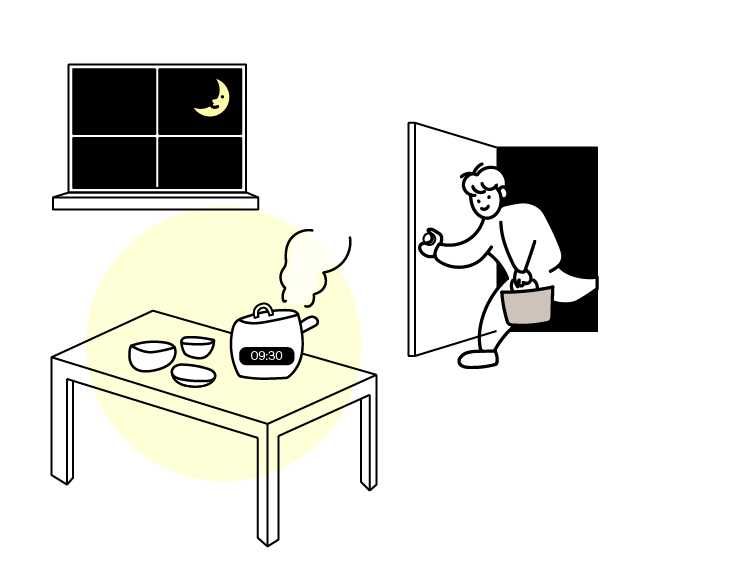
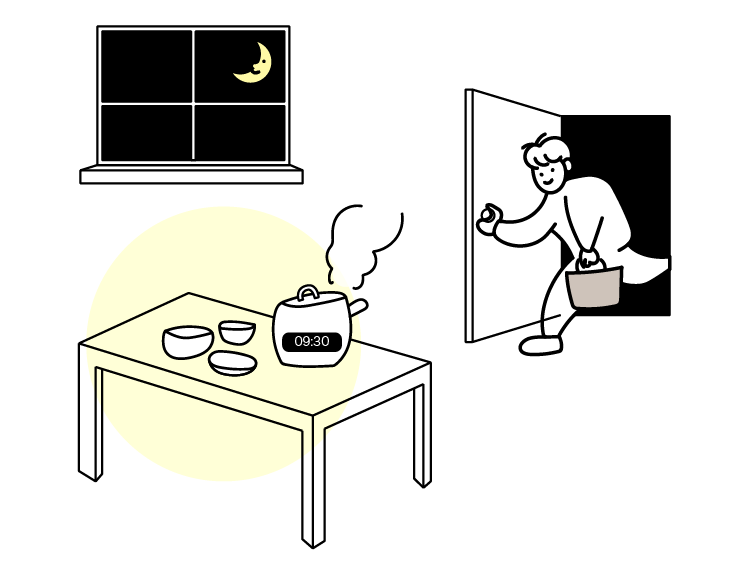
21:58

Changed region(s): [[0.06, 0.1557, 0.9304, 0.9654], [0.06, 0.0311, 0.4202, 0.3737]]

diff --git a/index.html b/index.html
@@ -596,7 +596,7 @@
                                 </div>
                                 <div class="card_right col-12 col-md-5">
                                     <h4>你需要的...寵物良伴</h4>
-                                    <div class="item_wrap d-md-flex flex-wrap d-none">
+                                    <div class="item_wrap pet d-md-flex flex-wrap d-none">
                                         <div class="col-4 text-center">
                                             <div class="item">
                                                 <h5>Mia</h5>
@@ -641,7 +641,7 @@
                             </div>
                         </li>
                         <li class="card ori_card_2">
-                            <h3 class="display_1 ">1.寵物良伴-寵物機器人</h3>
+                            <h3 class="display_1 ">2.Baby良伴-陪伴機器人</h3>
                             <div
                                 class="card_wrap d-flex flex-column flex-md-row justify-content-end align-items-center">
                                 <div class="card_left col-12 col-md-7">
@@ -653,54 +653,54 @@
                                     <div
                                         class="img_wrap row align-self-md-center align-items-center align-items-md-start m-0 m-md-1">
                                         <div class="person d-none d-md-block col-md-4">
-                                            <img src="./index_img/persona-1.png" alt="">
-                                            <img src="./index_img/persona-2.png" alt="">
+                                            <img src="./index_img/persona-5.png" alt="">
+                                            <img src="./index_img/persona-3.png" alt="">
                                             <p class="color_dark_purple text-center
-                                                    mt-2 d-none d-md-block">當事狗傑克，與當事主人A小姐</p>
+                                                    mt-2 d-none d-md-block">當事嬰兒小明，與當事爸爸B先生</p>
                                         </div>
-                                        <img src="./index_img/card-before-1.png" alt=""
+                                        <img src="./index_img/card-before-2.png" alt=""
                                             class="card-list__image col-10 col-md-7">
-                                        <img src="./index_img/card-after-1.png" alt=""
+                                        <img src="./index_img/card-after-2.png" alt=""
                                             class="card-list__image col-10 col-md-7">
                                     </div>
                                 </div>
                                 <div class="card_right col-12 col-md-5">
-                                    <h4>你需要的...寵物良伴</h4>
-                                    <div class="item_wrap d-md-flex flex-wrap d-none">
+                                    <h4>你需要的...Baby良伴</h4>
+                                    <div class="item_wrap baby d-md-flex flex-wrap d-none">
                                         <div class="col-4 text-center">
                                             <div class="item">
-                                                <h5>Mia</h5>
-                                                <p>全新的寵物陪伴機器人Mia，與寵物互動還提供食物</p>
+                                                <h5>Kirobo</h5>
+                                                <p>陪伴機器人Kirobo，大眼紅鞋造型極為可愛</p>
                                             </div>
                                         </div>
                                         <div class="col-4 text-center">
                                             <div class="item">
-                                                <h5>Mia</h5>
-                                                <p>全新的寵物陪伴機器人Mia，與寵物互動還提供食物</p>
+                                                <h5>AIBO</h5>
+                                                <p>Ers-1000 ERS 1000 aibo寵物機器狗</p>
                                             </div>
                                         </div>
                                         <div class="col-4 text-center">
                                             <div class="item">
-                                                <h5>Mia</h5>
-                                                <p>全新的寵物陪伴機器人Mia，與寵物互動還提供食物</p>
+                                                <h5> Lovot</h5>
+                                                <p>可愛就是正義，首位有「個性」的機器人！</p>
                                             </div>
                                         </div>
                                         <div class="col-4 text-center">
                                             <div class="item">
-                                                <h5>Mia</h5>
-                                                <p>全新的寵物陪伴機器人Mia，與寵物互動還提供食物</p>
+                                                <h5>公子小白2</h5>
+                                                <p>智能萌寵機器人第二代</p>
                                             </div>
                                         </div>
                                         <div class="col-4 text-center">
                                             <div class="item">
-                                                <h5>Mia</h5>
-                                                <p>全新的寵物陪伴機器人Mia，與寵物互動還提供食物</p>
+                                                <h5>公子小白</h5>
+                                                <p>智能萌寵機器人，支持兒童智能機器人</p>
                                             </div>
                                         </div>
                                         <div class="col-4 text-center">
                                             <div class="item">
-                                                <h5>Mia</h5>
-                                                <p>全新的寵物陪伴機器人Mia，與寵物互動還提供食物</p>
+                                                <h5>Zenbo</h5>
+                                                <p>提供居家生活陪伴及照護服務</p>
                                             </div>
                                         </div>
                                     </div>
@@ -711,7 +711,7 @@
                             </div>
                         </li>
                         <li class="card ori_card_3">
-                            <h3 class="display_1">3.寵物良伴-寵物機器人</h3>
+                            <h3 class="display_1">3.晚歸人良伴-智能電子鍋</h3>
                             <div
                                 class="card_wrap d-flex flex-column flex-md-row justify-content-end align-items-center">
                                 <div class="card_left col-12 col-md-7">
@@ -723,54 +723,53 @@
                                     <div
                                         class="img_wrap row align-self-md-center align-items-center align-items-md-start m-0 m-md-1">
                                         <div class="person d-none d-md-block col-md-4">
-                                            <img src="./index_img/persona-1.png" alt="">
-                                            <img src="./index_img/persona-2.png" alt="">
+                                            <img src="./index_img/persona-4.png" alt="">
                                             <p class="color_dark_purple text-center
-                                                    mt-2 d-none d-md-block">當事狗傑克，與當事主人A小姐</p>
+                                                    mt-2 d-none d-md-block">當事晚歸人C先生</p>
                                         </div>
-                                        <img src="./index_img/card-before-1.png" alt=""
+                                        <img src="./index_img/card-before-3.png" alt=""
                                             class="card-list__image col-10 col-md-7">
-                                        <img src="./index_img/card-after-1.png" alt=""
+                                        <img src="./index_img/card-after-3.png" alt=""
                                             class="card-list__image col-10 col-md-7">
                                     </div>
                                 </div>
                                 <div class="card_right col-12 col-md-5">
-                                    <h4>你需要的...寵物良伴</h4>
-                                    <div class="item_wrap d-md-flex flex-wrap d-none">
+                                    <h4>你需要的...晚歸人良伴</h4>
+                                    <div class="item_wrap night d-md-flex flex-wrap d-none">
                                         <div class="col-4 text-center">
                                             <div class="item">
-                                                <h5>Mia</h5>
-                                                <p>全新的寵物陪伴機器人Mia，與寵物互動還提供食物</p>
+                                                <h5>MU</h5>
+                                                <p>MU全自動炒菜機‧IH爐智能機器人</p>
                                             </div>
                                         </div>
                                         <div class="col-4 text-center">
                                             <div class="item">
-                                                <h5>Mia</h5>
-                                                <p>全新的寵物陪伴機器人Mia，與寵物互動還提供食物</p>
+                                                <h5>FANLAI</h5>
+                                                <p>全自動炒菜機家用多功能炒飯機炒菜鍋智能機器人炒菜機</p>
                                             </div>
                                         </div>
                                         <div class="col-4 text-center">
                                             <div class="item">
-                                                <h5>Mia</h5>
-                                                <p>全新的寵物陪伴機器人Mia，與寵物互動還提供食物</p>
+                                                <h5>小米</h5>
+                                                <p>最近小米有品上架了一款眾籌智能炒菜機，Solista 獨奏智能炒菜機</p>
                                             </div>
                                         </div>
                                         <div class="col-4 text-center">
                                             <div class="item">
-                                                <h5>Mia</h5>
-                                                <p>全新的寵物陪伴機器人Mia，與寵物互動還提供食物</p>
+                                                <h5>EASY LIFE</h5>
+                                                <p>IH智能翻炒鍋(EL19008)，智能溫控、燉炒燜煲一鍵完成</p>
                                             </div>
                                         </div>
                                         <div class="col-4 text-center">
                                             <div class="item">
-                                                <h5>Mia</h5>
-                                                <p>全新的寵物陪伴機器人Mia，與寵物互動還提供食物</p>
+                                                <h5>SMART</h5>
+                                                <p>全功能智慧烹飪機/炒菜機器人/懶人炒鍋紅色/黃</p>
                                             </div>
                                         </div>
                                         <div class="col-4 text-center">
                                             <div class="item">
-                                                <h5>Mia</h5>
-                                                <p>全新的寵物陪伴機器人Mia，與寵物互動還提供食物</p>
+                                                <h5>小米</h5>
+                                                <p>飯來F1S 烹飪機器人，標榜一鍵烹飪坐享飯來</p>
                                             </div>
                                         </div>
                                     </div>

diff --git a/index.css b/index.css
@@ -158,7 +158,7 @@ section{
 @media screen and (max-width: 575.98px) {
 
     .section_1 .index{
-        margin-top: 12rem;
+        margin-top: 5rem;
     }
 
     .textwrap::after{
@@ -547,36 +547,102 @@ section{
     margin-top: 1rem;
 }
 
-.card_right .item_wrap .item:nth-child(1){
+/* pet */
+.card_right .pet .item:nth-child(1){
     background:linear-gradient(rgba(0,0,0,.3), rgba(0,0,0,.3)),url(index_img/jpg/dog-1.jpeg);
     background-size: cover;
     background-position: 80% 0%;
 }
-.card_right .item_wrap .item:nth-child(2){
+.card_right .pet .item:nth-child(2){
     background:linear-gradient(rgba(0,0,0,.3), rgba(0,0,0,.3)),url(index_img/jpg/dog-2.jpeg);
     background-size: cover;
     background-position: 80% 0%;
 }
-.card_right .item_wrap .item:nth-child(3){
+.card_right .pet .item:nth-child(3){
     background:linear-gradient(rgba(0,0,0,.3), rgba(0,0,0,.3)),url(./index_img/jpg/dog-2.jpeg);
     background-size: cover;
     background-position: 80% 0%;
 }
-.card_right .item_wrap .item:nth-child(4){
+.card_right .pet .item:nth-child(4){
     background:linear-gradient(rgba(0,0,0,.3), rgba(0,0,0,.3)),url(./index_img/jpg/dog-2.jpeg);
     background-size: cover;
     background-position: 80% 0%;
 }
-.card_right .item_wrap .item:nth-child(5){
+.card_right .pet .item:nth-child(5){
     background:linear-gradient(rgba(0,0,0,.3), rgba(0,0,0,.3)),url(./index_img/jpg/dog-2.jpeg);
     background-size: cover;
     background-position: 80% 0%;
 }
-.card_right .item_wrap .item:nth-child(6){
+.card_right .pet .item:nth-child(6){
     background:linear-gradient(rgba(0,0,0,.3), rgba(0,0,0,.3)),url(./index_img/jpg/dog-2.jpeg);
     background-size: cover;
     background-position: 80% 0%;
 }
+
+/* baby */
+.card_right .baby .item:nth-child(1){
+    background:linear-gradient(rgba(0,0,0,.3), rgba(0,0,0,.3)),url(index_img/jpg/dog-1.jpeg);
+    background-size: cover;
+    background-position: 80% 0%;
+}
+.card_right .baby .item:nth-child(2){
+    background:linear-gradient(rgba(0,0,0,.3), rgba(0,0,0,.3)),url(index_img/jpg/dog-2.jpeg);
+    background-size: cover;
+    background-position: 80% 0%;
+}
+.card_right .baby .item:nth-child(3){
+    background:linear-gradient(rgba(0,0,0,.3), rgba(0,0,0,.3)),url(./index_img/jpg/dog-2.jpeg);
+    background-size: cover;
+    background-position: 80% 0%;
+}
+.card_right .baby .item:nth-child(4){
+    background:linear-gradient(rgba(0,0,0,.3), rgba(0,0,0,.3)),url(./index_img/jpg/dog-2.jpeg);
+    background-size: cover;
+    background-position: 80% 0%;
+}
+.card_right .baby .item:nth-child(5){
+    background:linear-gradient(rgba(0,0,0,.3), rgba(0,0,0,.3)),url(./index_img/jpg/dog-2.jpeg);
+    background-size: cover;
+    background-position: 80% 0%;
+}
+.card_right .baby .item:nth-child(6){
+    background:linear-gradient(rgba(0,0,0,.3), rgba(0,0,0,.3)),url(./index_img/jpg/dog-2.jpeg);
+    background-size: cover;
+    background-position: 80% 0%;
+}
+
+/* night */
+.card_right .night .item:nth-child(1){
+    background:linear-gradient(rgba(0,0,0,.3), rgba(0,0,0,.3)),url(index_img/jpg/dog-1.jpeg);
+    background-size: cover;
+    background-position: 80% 0%;
+}
+.card_right .night .item:nth-child(2){
+    background:linear-gradient(rgba(0,0,0,.3), rgba(0,0,0,.3)),url(index_img/jpg/dog-2.jpeg);
+    background-size: cover;
+    background-position: 80% 0%;
+}
+.card_right .night .item:nth-child(3){
+    background:linear-gradient(rgba(0,0,0,.3), rgba(0,0,0,.3)),url(./index_img/jpg/dog-2.jpeg);
+    background-size: cover;
+    background-position: 80% 0%;
+}
+.card_right .night .item:nth-child(4){
+    background:linear-gradient(rgba(0,0,0,.3), rgba(0,0,0,.3)),url(./index_img/jpg/dog-2.jpeg);
+    background-size: cover;
+    background-position: 80% 0%;
+}
+.card_right .night .item:nth-child(5){
+    background:linear-gradient(rgba(0,0,0,.3), rgba(0,0,0,.3)),url(./index_img/jpg/dog-2.jpeg);
+    background-size: cover;
+    background-position: 80% 0%;
+}
+.card_right .night .item:nth-child(6){
+    background:linear-gradient(rgba(0,0,0,.3), rgba(0,0,0,.3)),url(./index_img/jpg/dog-2.jpeg);
+    background-size: cover;
+    background-position: 80% 0%;
+}
+
 
 .card_right .btn{
     margin-top: 2rem;
@@ -799,7 +865,9 @@ section{
 /* 推薦商品 */
 /* 舒涵的卡片樣式 */
 
-
+.choose2{
+    margin-top: -8%;
+}
 .section_4 .item_wrap{
     width: 22%;
     margin: 0.5rem;
@@ -808,13 +876,14 @@ section{
 .item_card{
     background-color: rgba(255, 255, 255, 0.8);
     padding: 1rem;
-    border-radius: 20px;
+    border-radius: 15px;
 }
 
 .item_card>img{
     width: 100%;
     margin: 0 auto;
     display: block;
+    border-radius: 15px;
 }
 
 .firstline {
@@ -990,7 +1059,7 @@ section{
     .section_4 .title_wrap{
         margin: 2rem 0 1rem;
     }
-    .section_4 .container_90 h4{
+    .section_4  h4{
         font-size: 1rem;
         letter-spacing: 0.1rem;
         margin-top: 0%;
@@ -1052,10 +1121,15 @@ section{
         margin: 0;
     }
     /* choose2 card */
+    .choose2{
+        margin-top: 0%;
+    }
+
     .section_4 .item_wrap {
         width: 40%;
         margin: 0.5rem;
     }
+
     .re_choose{
         background-color: #FA8873;
         border-radius: 999em;
@@ -1073,7 +1147,7 @@ section{
     }
 
     .item_card>img {
-        width: 100%;
+        margin-bottom: .5rem;
     }
 
     .item_card>svg{
@@ -1091,11 +1165,14 @@ section{
         padding: 0;
     }
 
-    .firstline .card-title h4{
-        font-size: .7rem;
+    .firstline .card-title{
+        font-size: .5rem;
+        font-weight: 500;
+        color: rgb(143, 143, 143);
     }
 
     .item_wrap h5{
+        font-size: .7rem;
         margin: 0rem 0 .5rem;
         font-weight: 400;
         letter-spacing: 0.1rem;
